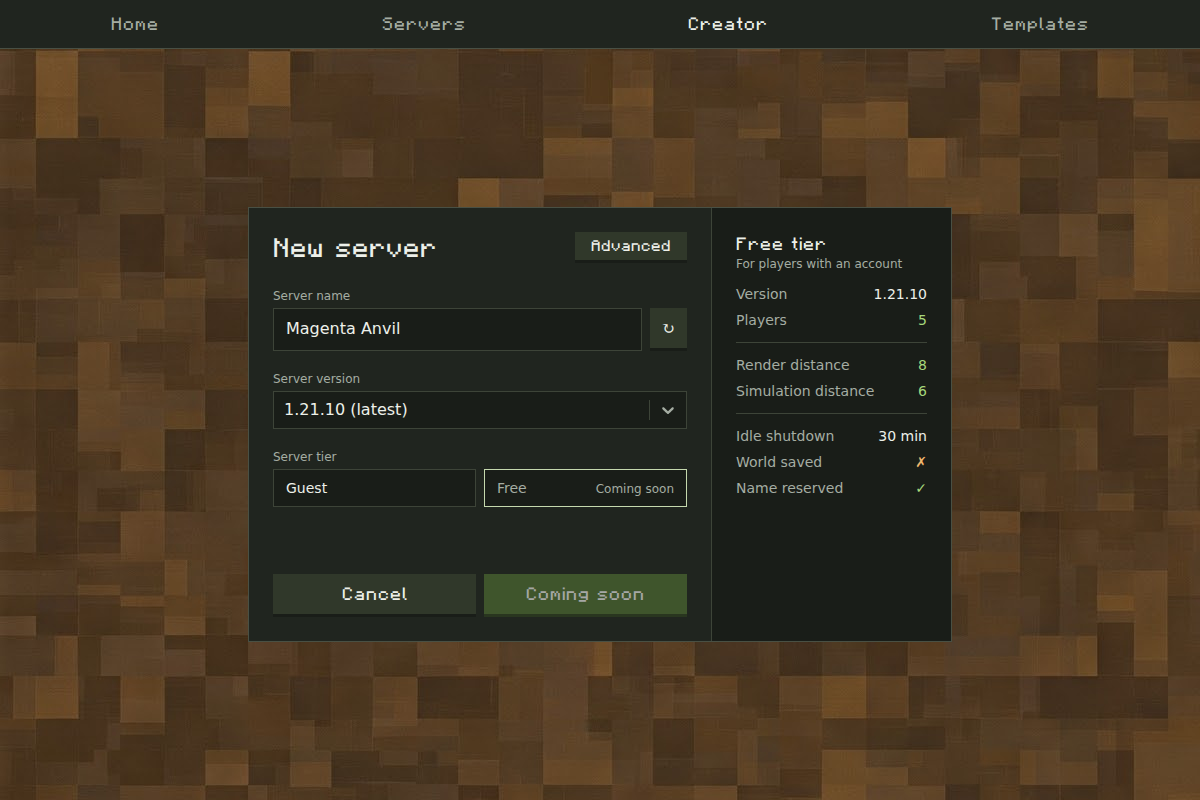
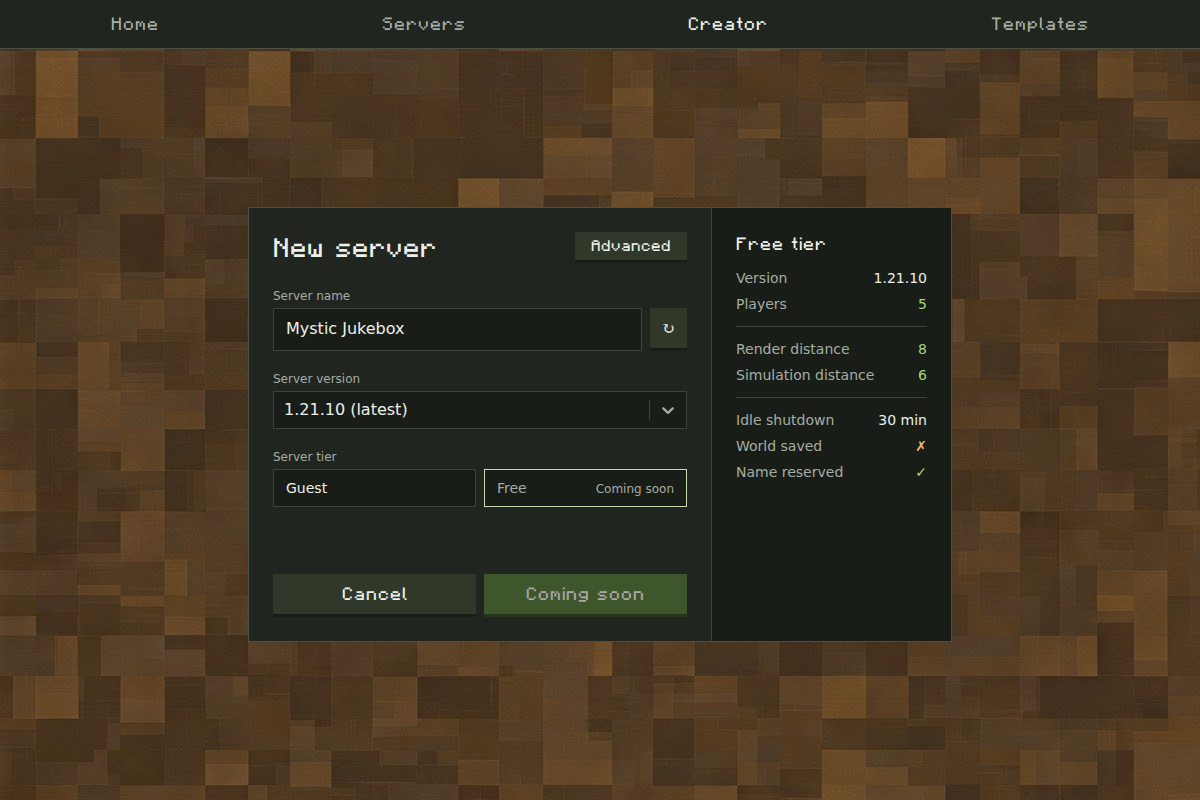
Drop the tier description from the creation summary

Changed region(s): [[0.6167, 0.3125, 0.7708, 0.625], [0.2467, 0.4062, 0.3392, 0.4375]]

diff --git a/web/src/creator/ServerCreator.tsx b/web/src/creator/ServerCreator.tsx
@@ -214,10 +214,7 @@ export function ServerCreator() {
 
     return (
       <aside className="flex flex-col gap-3 border-t border-edge bg-inset p-6 sm:col-start-2 sm:row-span-2 sm:row-start-1 sm:w-60 sm:border-t-0 sm:border-l" aria-labelledby="server-summary-heading">
-        <div className="flex flex-col">
-          <h3 id="server-summary-heading" className="font-pixel">{tier.name} tier</h3>
-          <p className="text-xs text-content-muted">{tier.description}</p>
-        </div>
+        <h3 id="server-summary-heading" className="font-pixel">{tier.name} tier</h3>
         <dl className="flex flex-col text-sm">
           {groups.map(rows => (
             <div key={rows[0][0]} className="flex flex-col gap-1.5 border-t border-edge py-3 first:border-t-0 first:pt-0">
